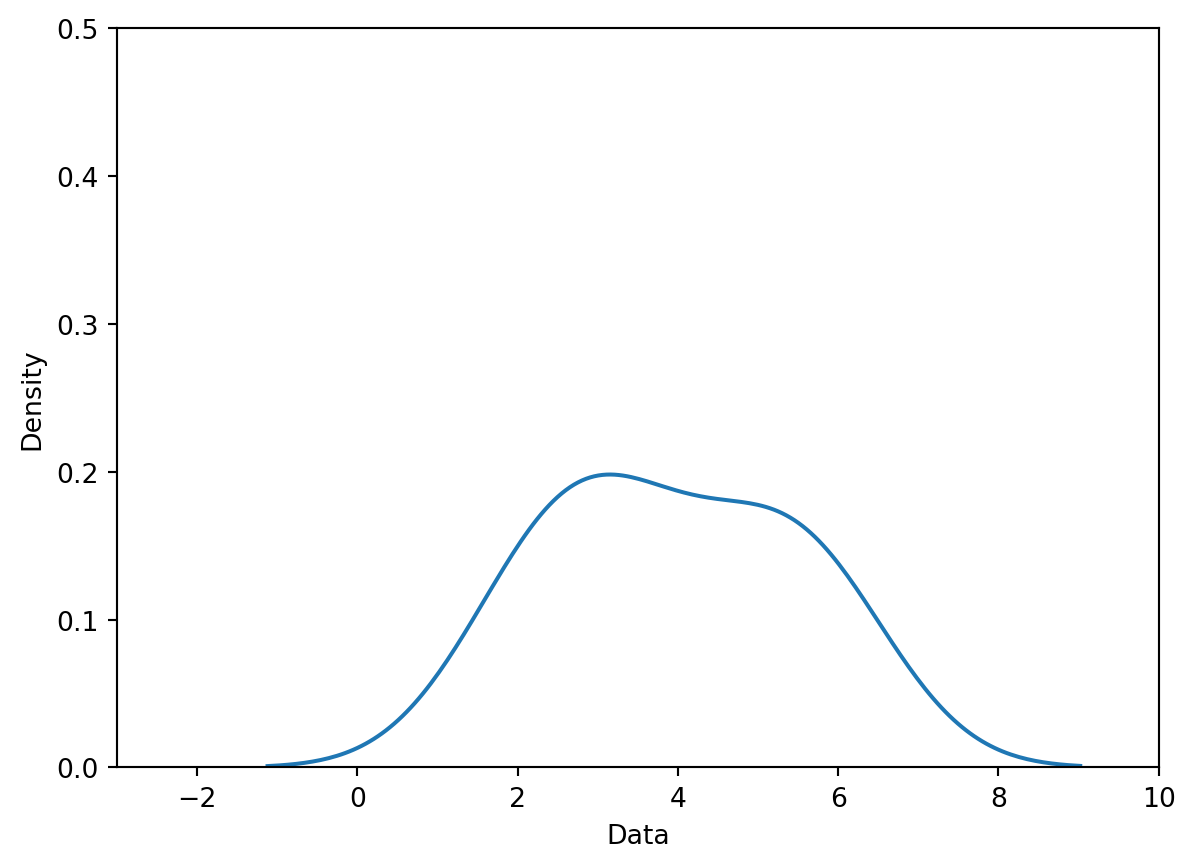
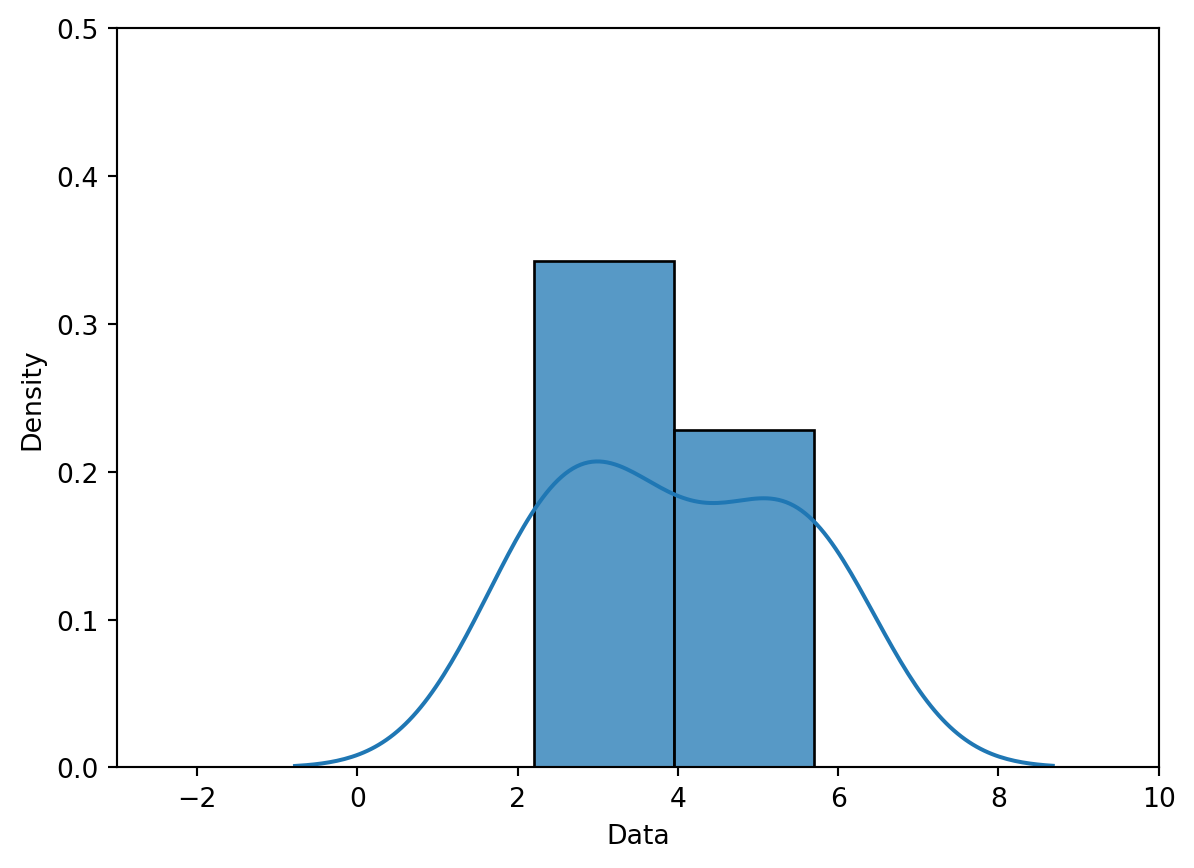
fix2?

diff --git a/docs/visualization_2/visualization_2.html b/docs/visualization_2/visualization_2.html
@@ -348,7 +348,7 @@ Learning Outcomes
 <p>A <strong>kernel density estimate (KDE)</strong> is a smooth, continuous function that approximates a curve. It allows us to represent general trends in a distribution without focusing on the details, which is useful for analyzing the broad structure of a dataset.</p>
 <p>More formally, a KDE attempts to approximate the underlying <strong>probability distribution</strong> from which our dataset was drawn. You may have encountered the idea of a probability distribution in your other classes; if not, we’ll discuss it at length in the next lecture. For now, you can think of a probability distribution as a description of how likely it is for us to sample a particular value in our dataset.</p>
 <p>A KDE curve estimates the probability density function of a random variable. Consider the example below, where we have used <code>sns.displot</code> to plot both a histogram (containing the data points we actually collected) and a KDE curve (representing the <em>approximated</em> probability distribution from which this data was drawn) using data from the World Bank dataset (<code>wb</code>).</p>
-<div id="571f240b" class="cell" data-execution_count="1">
+<div id="2181d3b7" class="cell" data-execution_count="1">
 <details class="code-fold">
 <summary>Code</summary>
 <div class="sourceCode cell-code" id="cb1"><pre class="sourceCode python code-with-copy"><code class="sourceCode python"><span id="cb1-1"><a href="#cb1-1" aria-hidden="true" tabindex="-1"></a><span class="im">import</span> pandas <span class="im">as</span> pd</span>
@@ -364,7 +364,7 @@ Learning Outcomes
 <span id="cb1-11"><a href="#cb1-11" aria-hidden="true" tabindex="-1"></a>                       <span class="st">'Gross national income per capita, Atlas method: $: 2016'</span>:<span class="st">'gni'</span>})</span>
 <span id="cb1-12"><a href="#cb1-12" aria-hidden="true" tabindex="-1"></a>wb.head()</span></code><button title="Copy to Clipboard" class="code-copy-button"><i class="bi"></i></button></pre></div>
 </details>
-<div class="cell-output cell-output-display" data-execution_count="55">
+<div class="cell-output cell-output-display" data-execution_count="109">
 <div>
 
 
@@ -523,7 +523,7 @@ Learning Outcomes
 </div>
 </div>
 </div>
-<div id="9b47e5c2" class="cell" data-execution_count="2">
+<div id="99b3466b" class="cell" data-execution_count="2">
 <div class="sourceCode cell-code" id="cb2"><pre class="sourceCode python code-with-copy"><code class="sourceCode python"><span id="cb2-1"><a href="#cb2-1" aria-hidden="true" tabindex="-1"></a><span class="im">import</span> seaborn <span class="im">as</span> sns</span>
 <span id="cb2-2"><a href="#cb2-2" aria-hidden="true" tabindex="-1"></a><span class="im">import</span> matplotlib.pyplot <span class="im">as</span> plt</span>
 <span id="cb2-3"><a href="#cb2-3" aria-hidden="true" tabindex="-1"></a></span>
@@ -552,7 +552,7 @@ Learning Outcomes
 </ol>
 <p>We’ll explain what a “kernel” is momentarily.</p>
 <p>To make things simpler, let’s construct a KDE for a small, artificially generated dataset of 5 datapoints: <span class="math inline">\([2.2, 2.8, 3.7, 5.3, 5.7]\)</span>. In the plot below, each vertical bar represents one data point.</p>
-<div id="01864dec" class="cell" data-execution_count="3">
+<div id="e2a3e844" class="cell" data-execution_count="3">
 <details class="code-fold">
 <summary>Code</summary>
 <div class="sourceCode cell-code" id="cb3"><pre class="sourceCode python code-with-copy"><code class="sourceCode python"><span id="cb3-1"><a href="#cb3-1" aria-hidden="true" tabindex="-1"></a>data <span class="op">=</span> [<span class="fl">2.2</span>, <span class="fl">2.8</span>, <span class="fl">3.7</span>, <span class="fl">5.3</span>, <span class="fl">5.7</span>]</span>
@@ -573,14 +573,15 @@ Learning Outcomes
 </div>
 </div>
 <p>Our goal is to create the following KDE curve, which was generated automatically by <code>sns.kdeplot</code>.</p>
-<div id="0722bdec" class="cell" data-execution_count="4">
+<div id="2b99db84" class="cell" data-execution_count="4">
 <details class="code-fold">
 <summary>Code</summary>
-<div class="sourceCode cell-code" id="cb4"><pre class="sourceCode python code-with-copy"><code class="sourceCode python"><span id="cb4-1"><a href="#cb4-1" aria-hidden="true" tabindex="-1"></a>sns.kdeplot(data)</span>
-<span id="cb4-2"><a href="#cb4-2" aria-hidden="true" tabindex="-1"></a></span>
-<span id="cb4-3"><a href="#cb4-3" aria-hidden="true" tabindex="-1"></a>plt.xlabel(<span class="st">"Data"</span>)</span>
-<span id="cb4-4"><a href="#cb4-4" aria-hidden="true" tabindex="-1"></a>plt.xlim(<span class="op">-</span><span class="dv">3</span>, <span class="dv">10</span>)</span>
-<span id="cb4-5"><a href="#cb4-5" aria-hidden="true" tabindex="-1"></a>plt.ylim(<span class="dv">0</span>, <span class="fl">0.5</span>)<span class="op">;</span></span></code><button title="Copy to Clipboard" class="code-copy-button"><i class="bi"></i></button></pre></div>
+<div class="sourceCode cell-code" id="cb4"><pre class="sourceCode python code-with-copy"><code class="sourceCode python"><span id="cb4-1"><a href="#cb4-1" aria-hidden="true" tabindex="-1"></a>sns.kdeplot(data, bw_method<span class="op">=</span><span class="fl">0.65</span>) </span>
+<span id="cb4-2"><a href="#cb4-2" aria-hidden="true" tabindex="-1"></a>sns.histplot(data, stat<span class="op">=</span><span class="st">'density'</span>, bins<span class="op">=</span><span class="dv">2</span>)</span>
+<span id="cb4-3"><a href="#cb4-3" aria-hidden="true" tabindex="-1"></a></span>
+<span id="cb4-4"><a href="#cb4-4" aria-hidden="true" tabindex="-1"></a>plt.xlabel(<span class="st">"Data"</span>)</span>
+<span id="cb4-5"><a href="#cb4-5" aria-hidden="true" tabindex="-1"></a>plt.xlim(<span class="op">-</span><span class="dv">3</span>, <span class="dv">10</span>)</span>
+<span id="cb4-6"><a href="#cb4-6" aria-hidden="true" tabindex="-1"></a>plt.ylim(<span class="dv">0</span>, <span class="fl">0.5</span>)<span class="op">;</span></span></code><button title="Copy to Clipboard" class="code-copy-button"><i class="bi"></i></button></pre></div>
 </details>
 <div class="cell-output cell-output-display">
 <div>
@@ -590,8 +591,8 @@ Learning Outcomes
 </div>
 </div>
 </div>
-<p>Alternatively, we can use <code>sns.histplot</code>. This plot also visualizes the underlying bins as a histogram.</p>
-<div id="d323daee" class="cell" data-execution_count="5">
+<p>Alternatively, we can use <code>sns.histplot</code>. You can also get a very similar result in a single call by requesting the KDE be added to the histogram, with kde=True and some extra keywords:</p>
+<div id="85214e6d" class="cell" data-execution_count="5">
 <details class="code-fold">
 <summary>Code</summary>
 <div class="sourceCode cell-code" id="cb5"><pre class="sourceCode python code-with-copy"><code class="sourceCode python"><span id="cb5-1"><a href="#cb5-1" aria-hidden="true" tabindex="-1"></a>sns.histplot(data, bins<span class="op">=</span><span class="dv">2</span>, kde<span class="op">=</span><span class="va">True</span>, stat<span class="op">=</span><span class="st">"density"</span>, kde_kws<span class="op">=</span><span class="bu">dict</span>(cut<span class="op">=</span><span class="dv">3</span>, bw_method<span class="op">=</span><span class="fl">0.65</span>))</span>
@@ -614,7 +615,7 @@ Learning Outcomes
 <p>A <strong>kernel</strong> is a density curve. It is the mathematical function that attempts to capture the randomness of each data point in our sampled data. To explain what this means, consider just <em>one</em> of the datapoints in our dataset: <span class="math inline">\(2.2\)</span>. We obtained this datapoint by randomly sampling some information out in the real world (you can imagine <span class="math inline">\(2.2\)</span> as representing a single measurement taken in an experiment, for example). If we were to sample a new datapoint, we may obtain a slightly different value. It could be higher than <span class="math inline">\(2.2\)</span>; it could also be lower than <span class="math inline">\(2.2\)</span>. We make the assumption that any future sampled datapoints will likely be similar in value to the data we’ve already drawn. This means that our <em>kernel</em> – our description of the probability of randomly sampling any new value – will be greatest at the datapoint we’ve already drawn but still have non-zero probability above and below it. The area under any kernel should integrate to 1, representing the total probability of drawing a new datapoint.</p>
 <p>A <strong>bandwidth value</strong>, usually denoted by <span class="math inline">\(\alpha\)</span>, represents the width of the kernel. A large value of <span class="math inline">\(\alpha\)</span> will result in a wide, short kernel function, while a small value with result in a narrow, tall kernel.</p>
 <p>Below, we place a <strong>Gaussian kernel</strong>, plotted in orange, over the datapoint <span class="math inline">\(2.2\)</span>. A Gaussian kernel is simply the normal distribution, which you may have called a bell curve in Data 8.</p>
-<div id="cd6d5239" class="cell" data-execution_count="6">
+<div id="1d390b42" class="cell" data-execution_count="6">
 <details class="code-fold">
 <summary>Code</summary>
 <div class="sourceCode cell-code" id="cb6"><pre class="sourceCode python code-with-copy"><code class="sourceCode python"><span id="cb6-1"><a href="#cb6-1" aria-hidden="true" tabindex="-1"></a><span class="kw">def</span> gaussian_kernel(x, z, a):</span>
@@ -642,7 +643,7 @@ Learning Outcomes
 </div>
 </div>
 <p>To begin creating our KDE, we place a kernel on <em>each</em> datapoint in our dataset. For our dataset of 5 points, we will have 5 kernels.</p>
-<div id="8adfc3ba" class="cell" data-execution_count="7">
+<div id="4bc82eff" class="cell" data-execution_count="7">
 <details class="code-fold">
 <summary>Code</summary>
 <div class="sourceCode cell-code" id="cb7"><pre class="sourceCode python code-with-copy"><code class="sourceCode python"><span id="cb7-1"><a href="#cb7-1" aria-hidden="true" tabindex="-1"></a><span class="co"># You will work with the functions below in Lab 4</span></span>
@@ -694,7 +695,7 @@ Learning Outcomes
 <h4 data-number="8.1.2.2" class="anchored" data-anchor-id="step-2-normalize-kernels-to-have-a-total-area-of-1"><span class="header-section-number">8.1.2.2</span> Step 2: Normalize Kernels to Have a Total Area of 1</h4>
 <p>Above, we said that <em>each</em> kernel has an area of 1. Earlier, we also said that our goal is to construct a KDE curve using these kernels with a <em>total</em> area of 1. If we were to directly sum the kernels as they are, we would produce a KDE curve with an integrated area of (5 kernels) <span class="math inline">\(\times\)</span> (area of 1 each) = 5. To avoid this, we will <strong>normalize</strong> each of our kernels. This involves multiplying each kernel by <span class="math inline">\(\frac{1}{\#\:\text{datapoints}}\)</span>.</p>
 <p>In the cell below, we multiply each of our 5 kernels by <span class="math inline">\(\frac{1}{5}\)</span> to apply normalization.</p>
-<div id="fac903a3" class="cell" data-execution_count="8">
+<div id="dfed5810" class="cell" data-execution_count="8">
 <details class="code-fold">
 <summary>Code</summary>
 <div class="sourceCode cell-code" id="cb8"><pre class="sourceCode python code-with-copy"><code class="sourceCode python"><span id="cb8-1"><a href="#cb8-1" aria-hidden="true" tabindex="-1"></a>plt.xlim(<span class="op">-</span><span class="dv">3</span>, <span class="dv">10</span>)</span>
@@ -717,7 +718,7 @@ Learning Outcomes
 <section id="step-3-sum-the-normalized-kernels" class="level4" data-number="8.1.2.3">
 <h4 data-number="8.1.2.3" class="anchored" data-anchor-id="step-3-sum-the-normalized-kernels"><span class="header-section-number">8.1.2.3</span> Step 3: Sum the Normalized Kernels</h4>
 <p>Our KDE curve is the sum of the normalized kernels. Notice that the final curve is identical to the plot generated by <code>sns.kdeplot</code> we saw earlier!</p>
-<div id="082e2335" class="cell" data-execution_count="9">
+<div id="4085961d" class="cell" data-execution_count="9">
 <details class="code-fold">
 <summary>Code</summary>
 <div class="sourceCode cell-code" id="cb9"><pre class="sourceCode python code-with-copy"><code class="sourceCode python"><span id="cb9-1"><a href="#cb9-1" aria-hidden="true" tabindex="-1"></a>plt.xlim(<span class="op">-</span><span class="dv">3</span>, <span class="dv">10</span>)</span>
@@ -827,7 +828,7 @@ Learning Outcomes
         0, &amp; \text{else }
     \end{cases}\]</span></p>
 <p>The boxcar kernel is seldom used in practice – we include it here to demonstrate that a kernel function can take whatever form you would like, provided it integrates to 1 and does not output negative values.</p>
-<div id="553e9136" class="cell" data-execution_count="10">
+<div id="71bfd6ea" class="cell" data-execution_count="10">
 <details class="code-fold">
 <summary>Code</summary>
 <div class="sourceCode cell-code" id="cb10"><pre class="sourceCode python code-with-copy"><code class="sourceCode python"><span id="cb10-1"><a href="#cb10-1" aria-hidden="true" tabindex="-1"></a><span class="kw">def</span> boxcar_kernel(alpha, x, z):</span>
@@ -874,7 +875,7 @@ Learning Outcomes
 <p>As we saw earlier, we can use <code>seaborn</code>’s <code>displot</code> function to plot various distributions. In particular, <code>displot</code> allows you to specify the <code>kind</code> of plot and is a wrapper for <code>histplot</code>, <code>kdeplot</code>, and <code>ecdfplot</code>.</p>
 <p>Below, we can see a couple of examples of how <code>sns.displot</code> can be used to plot various distributions.</p>
 <p>First, we can plot a histogram by setting <code>kind</code> to <code>"hist"</code>. Note that here we’ve specified <code>stat = density</code> to normalize the histogram such that the area under the histogram is equal to 1.</p>
-<div id="0b3a9d25" class="cell" data-vscode="{&quot;languageId&quot;:&quot;python&quot;}" data-execution_count="11">
+<div id="0fd02806" class="cell" data-vscode="{&quot;languageId&quot;:&quot;python&quot;}" data-execution_count="11">
 <div class="sourceCode cell-code" id="cb11"><pre class="sourceCode python code-with-copy"><code class="sourceCode python"><span id="cb11-1"><a href="#cb11-1" aria-hidden="true" tabindex="-1"></a>sns.displot(data<span class="op">=</span>wb, </span>
 <span id="cb11-2"><a href="#cb11-2" aria-hidden="true" tabindex="-1"></a>            x<span class="op">=</span><span class="st">"gni"</span>, </span>
 <span id="cb11-3"><a href="#cb11-3" aria-hidden="true" tabindex="-1"></a>            kind<span class="op">=</span><span class="st">"hist"</span>, </span>
@@ -889,7 +890,7 @@ Learning Outcomes
 </div>
 </div>
 <p>Now, what if we want to generate a KDE plot? We can set <code>kind</code> = to <code>"kde"</code>!</p>
-<div id="54fd0ced" class="cell" data-vscode="{&quot;languageId&quot;:&quot;python&quot;}" data-execution_count="12">
+<div id="3005f20c" class="cell" data-vscode="{&quot;languageId&quot;:&quot;python&quot;}" data-execution_count="12">
 <div class="sourceCode cell-code" id="cb12"><pre class="sourceCode python code-with-copy"><code class="sourceCode python"><span id="cb12-1"><a href="#cb12-1" aria-hidden="true" tabindex="-1"></a>sns.displot(data<span class="op">=</span>wb, </span>
 <span id="cb12-2"><a href="#cb12-2" aria-hidden="true" tabindex="-1"></a>            x<span class="op">=</span><span class="st">"gni"</span>, </span>
 <span id="cb12-3"><a href="#cb12-3" aria-hidden="true" tabindex="-1"></a>            kind<span class="op">=</span><span class="st">'kde'</span>)</span>
@@ -903,7 +904,7 @@ Learning Outcomes
 </div>
 </div>
 <p>And finally, if we want to generate an Empirical Cumulative Distribution Function (ECDF), we can specify <code>kind = "ecdf"</code>.</p>
-<div id="93c0a8ad" class="cell" data-vscode="{&quot;languageId&quot;:&quot;python&quot;}" data-execution_count="13">
+<div id="01ab854b" class="cell" data-vscode="{&quot;languageId&quot;:&quot;python&quot;}" data-execution_count="13">
 <div class="sourceCode cell-code" id="cb13"><pre class="sourceCode python code-with-copy"><code class="sourceCode python"><span id="cb13-1"><a href="#cb13-1" aria-hidden="true" tabindex="-1"></a>sns.displot(data<span class="op">=</span>wb, </span>
 <span id="cb13-2"><a href="#cb13-2" aria-hidden="true" tabindex="-1"></a>            x<span class="op">=</span><span class="st">"gni"</span>, </span>
 <span id="cb13-3"><a href="#cb13-3" aria-hidden="true" tabindex="-1"></a>            kind<span class="op">=</span><span class="st">'ecdf'</span>)</span>
@@ -924,7 +925,7 @@ Learning Outcomes
 <h4 data-number="8.3.0.1" class="anchored" data-anchor-id="scatter-plots"><span class="header-section-number">8.3.0.1</span> Scatter Plots</h4>
 <p><strong>Scatter plots</strong> are one of the most useful tools in representing the relationship between <strong>pairs</strong> of quantitative variables. They are particularly important in gauging the strength, or correlation, of the relationship between variables. Knowledge of these relationships can then motivate decisions in our modeling process.</p>
 <p>In <code>matplotlib</code>, we use the function <code>plt.scatter</code> to generate a scatter plot. Notice that, unlike our examples of plotting single-variable distributions, now we specify sequences of values to be plotted along the x-axis <em>and</em> the y-axis.</p>
-<div id="f267b738" class="cell" data-vscode="{&quot;languageId&quot;:&quot;python&quot;}" data-execution_count="14">
+<div id="6c98bd9c" class="cell" data-vscode="{&quot;languageId&quot;:&quot;python&quot;}" data-execution_count="14">
 <div class="sourceCode cell-code" id="cb14"><pre class="sourceCode python code-with-copy"><code class="sourceCode python"><span id="cb14-1"><a href="#cb14-1" aria-hidden="true" tabindex="-1"></a>plt.scatter(wb[<span class="st">"per capita: </span><span class="sc">% g</span><span class="st">rowth: 2016"</span>], <span class="op">\</span></span>
 <span id="cb14-2"><a href="#cb14-2" aria-hidden="true" tabindex="-1"></a>            wb[<span class="st">'Adult literacy rate: Female: % ages 15 and older: 2005-14'</span>])</span>
 <span id="cb14-3"><a href="#cb14-3" aria-hidden="true" tabindex="-1"></a></span>
@@ -940,7 +941,7 @@ Learning Outcomes
 </div>
 </div>
 <p>In <code>seaborn</code>, we call the function <code>sns.scatterplot</code>. We use the <code>x</code> and <code>y</code> parameters to indicate the values to be plotted along the x and y axes, respectively. By using the <code>hue</code> parameter, we can specify a third variable to be used for coloring each scatter point.</p>
-<div id="0f3a2185" class="cell" data-vscode="{&quot;languageId&quot;:&quot;python&quot;}" data-execution_count="15">
+<div id="8c82bee0" class="cell" data-vscode="{&quot;languageId&quot;:&quot;python&quot;}" data-execution_count="15">
 <div class="sourceCode cell-code" id="cb15"><pre class="sourceCode python code-with-copy"><code class="sourceCode python"><span id="cb15-1"><a href="#cb15-1" aria-hidden="true" tabindex="-1"></a>sns.scatterplot(data <span class="op">=</span> wb, x <span class="op">=</span> <span class="st">"per capita: </span><span class="sc">% g</span><span class="st">rowth: 2016"</span>, <span class="op">\</span></span>
 <span id="cb15-2"><a href="#cb15-2" aria-hidden="true" tabindex="-1"></a>               y <span class="op">=</span> <span class="st">"Adult literacy rate: Female: % ages 15 and older: 2005-14"</span>, </span>
 <span id="cb15-3"><a href="#cb15-3" aria-hidden="true" tabindex="-1"></a>               hue <span class="op">=</span> <span class="st">"Continent"</span>)</span>
@@ -963,7 +964,7 @@ Learning Outcomes
 <li><strong>Jittering</strong> is the process of adding a small amount of random noise to all x and y values to slightly shift the position of each datapoint. By randomly shifting all the data by some small distance, we can discern individual points more clearly without modifying the major trends of the original dataset.</li>
 </ul>
 <p>In the cell below, we first jitter the data using <code>np.random.uniform</code>, then re-plot it with smaller markers. The resulting plot is much easier to interpret.</p>
-<div id="e03a69d4" class="cell" data-vscode="{&quot;languageId&quot;:&quot;python&quot;}" data-execution_count="16">
+<div id="7e0edc27" class="cell" data-vscode="{&quot;languageId&quot;:&quot;python&quot;}" data-execution_count="16">
 <div class="sourceCode cell-code" id="cb16"><pre class="sourceCode python code-with-copy"><code class="sourceCode python"><span id="cb16-1"><a href="#cb16-1" aria-hidden="true" tabindex="-1"></a><span class="co"># Setting a seed ensures that we produce the same plot each time</span></span>
 <span id="cb16-2"><a href="#cb16-2" aria-hidden="true" tabindex="-1"></a><span class="co"># This means that the course notes will not change each time you access them</span></span>
 <span id="cb16-3"><a href="#cb16-3" aria-hidden="true" tabindex="-1"></a>np.random.seed(<span class="dv">150</span>)</span>
@@ -997,7 +998,7 @@ Learning Outcomes
 <h4 data-number="8.3.0.2" class="anchored" data-anchor-id="lmplot-and-jointplot"><span class="header-section-number">8.3.0.2</span> <code>lmplot</code> and <code>jointplot</code></h4>
 <p><code>seaborn</code> also includes several built-in functions for creating more sophisticated scatter plots. Two of the most commonly used examples are <code>sns.lmplot</code> and <code>sns.jointplot</code>.</p>
 <p><code>sns.lmplot</code> plots both a scatter plot <em>and</em> a linear regression line, all in one function call. We’ll discuss linear regression in a few lectures.</p>
-<div id="d78498a8" class="cell" data-vscode="{&quot;languageId&quot;:&quot;python&quot;}" data-execution_count="17">
+<div id="3c382f1f" class="cell" data-vscode="{&quot;languageId&quot;:&quot;python&quot;}" data-execution_count="17">
 <div class="sourceCode cell-code" id="cb17"><pre class="sourceCode python code-with-copy"><code class="sourceCode python"><span id="cb17-1"><a href="#cb17-1" aria-hidden="true" tabindex="-1"></a>sns.lmplot(data <span class="op">=</span> wb, x <span class="op">=</span> <span class="st">"per capita: </span><span class="sc">% g</span><span class="st">rowth: 2016"</span>, <span class="op">\</span></span>
 <span id="cb17-2"><a href="#cb17-2" aria-hidden="true" tabindex="-1"></a>           y <span class="op">=</span> <span class="st">"Adult literacy rate: Female: % ages 15 and older: 2005-14"</span>)</span>
 <span id="cb17-3"><a href="#cb17-3" aria-hidden="true" tabindex="-1"></a></span>
@@ -1011,7 +1012,7 @@ Learning Outcomes
 </div>
 </div>
 <p><code>sns.jointplot</code> creates a visualization with three components: a scatter plot, a histogram of the distribution of x values, and a histogram of the distribution of y values.</p>
-<div id="7354798c" class="cell" data-vscode="{&quot;languageId&quot;:&quot;python&quot;}" data-execution_count="18">
+<div id="ac15203e" class="cell" data-vscode="{&quot;languageId&quot;:&quot;python&quot;}" data-execution_count="18">
 <div class="sourceCode cell-code" id="cb18"><pre class="sourceCode python code-with-copy"><code class="sourceCode python"><span id="cb18-1"><a href="#cb18-1" aria-hidden="true" tabindex="-1"></a>sns.jointplot(data <span class="op">=</span> wb, x <span class="op">=</span> <span class="st">"per capita: </span><span class="sc">% g</span><span class="st">rowth: 2016"</span>, <span class="op">\</span></span>
 <span id="cb18-2"><a href="#cb18-2" aria-hidden="true" tabindex="-1"></a>           y <span class="op">=</span> <span class="st">"Adult literacy rate: Female: % ages 15 and older: 2005-14"</span>)</span>
 <span id="cb18-3"><a href="#cb18-3" aria-hidden="true" tabindex="-1"></a></span>
@@ -1032,7 +1033,7 @@ Learning Outcomes
 <p>For datasets with a very large number of datapoints, jittering is unlikely to fully resolve the issue of overplotting. In these cases, we can attempt to visualize our data by its <em>density</em>, rather than displaying each individual datapoint.</p>
 <p><strong>Hex plots</strong> can be thought of as two-dimensional histograms that show the joint distribution between two variables. This is particularly useful when working with very dense data. In a hex plot, the x-y plane is binned into hexagons. Hexagons that are darker in color indicate a greater density of data – that is, there are more data points that lie in the region enclosed by the hexagon.</p>
 <p>We can generate a hex plot using <code>sns.jointplot</code> modified with the <code>kind</code> parameter.</p>
-<div id="6e3daa84" class="cell" data-vscode="{&quot;languageId&quot;:&quot;python&quot;}" data-execution_count="19">
+<div id="1fe1dd54" class="cell" data-vscode="{&quot;languageId&quot;:&quot;python&quot;}" data-execution_count="19">
 <div class="sourceCode cell-code" id="cb19"><pre class="sourceCode python code-with-copy"><code class="sourceCode python"><span id="cb19-1"><a href="#cb19-1" aria-hidden="true" tabindex="-1"></a>sns.jointplot(data <span class="op">=</span> wb, x <span class="op">=</span> <span class="st">"per capita: </span><span class="sc">% g</span><span class="st">rowth: 2016"</span>, <span class="op">\</span></span>
 <span id="cb19-2"><a href="#cb19-2" aria-hidden="true" tabindex="-1"></a>              y <span class="op">=</span> <span class="st">"Adult literacy rate: Female: % ages 15 and older: 2005-14"</span>, <span class="op">\</span></span>
 <span id="cb19-3"><a href="#cb19-3" aria-hidden="true" tabindex="-1"></a>              kind <span class="op">=</span> <span class="st">"hex"</span>)</span>
@@ -1053,7 +1054,7 @@ Learning Outcomes
 <h4 data-number="8.3.0.4" class="anchored" data-anchor-id="contour-plots"><span class="header-section-number">8.3.0.4</span> Contour Plots</h4>
 <p><strong>Contour plots</strong> are an alternative way of plotting the joint distribution of two variables. You can think of them as the 2-dimensional versions of KDE plots. A contour plot can be interpreted in a similar way to a <a href="https://gisgeography.com/contour-lines-topographic-map/">topographic map</a>. Each contour line represents an area that has the same <em>density</em> of datapoints throughout the region. Contours marked with darker colors contain more datapoints (a higher density) in that region.</p>
 <p><code>sns.kdeplot</code> will generate a contour plot if we specify both x and y data.</p>
-<div id="25e33d6e" class="cell" data-vscode="{&quot;languageId&quot;:&quot;python&quot;}" data-execution_count="20">
+<div id="81e059f8" class="cell" data-vscode="{&quot;languageId&quot;:&quot;python&quot;}" data-execution_count="20">
 <div class="sourceCode cell-code" id="cb20"><pre class="sourceCode python code-with-copy"><code class="sourceCode python"><span id="cb20-1"><a href="#cb20-1" aria-hidden="true" tabindex="-1"></a>sns.kdeplot(data <span class="op">=</span> wb, x <span class="op">=</span> <span class="st">"per capita: </span><span class="sc">% g</span><span class="st">rowth: 2016"</span>, <span class="op">\</span></span>
 <span id="cb20-2"><a href="#cb20-2" aria-hidden="true" tabindex="-1"></a>            y <span class="op">=</span> <span class="st">"Adult literacy rate: Female: % ages 15 and older: 2005-14"</span>, <span class="op">\</span></span>
 <span id="cb20-3"><a href="#cb20-3" aria-hidden="true" tabindex="-1"></a>            fill <span class="op">=</span> <span class="va">True</span>)</span>
@@ -1075,7 +1076,7 @@ Learning Outcomes
 <p>Much of this was done to uncover insights in data, which will prove necessary when we begin building models of data later in the course. A strong graphical correlation between two variables hints at an underlying relationship that we may want to study in greater detail. However, relying on visual relationships alone is limiting - not all plots show association. The presence of outliers and other statistical anomalies makes it hard to interpret data.</p>
 <p><strong>Transformations</strong> are the process of manipulating data to find significant relationships between variables. These are often found by applying mathematical functions to variables that “transform” their range of possible values and highlight some previously hidden associations between data.</p>
 <p>To see why we may want to transform data, consider the following plot of adult literacy rates against gross national income.</p>
-<div id="e6fbd7c6" class="cell" data-vscode="{&quot;languageId&quot;:&quot;python&quot;}" data-execution_count="21">
+<div id="3579c994" class="cell" data-vscode="{&quot;languageId&quot;:&quot;python&quot;}" data-execution_count="21">
 <details class="code-fold">
 <summary>Code</summary>
 <div class="sourceCode cell-code" id="cb21"><pre class="sourceCode python code-with-copy"><code class="sourceCode python"><span id="cb21-1"><a href="#cb21-1" aria-hidden="true" tabindex="-1"></a><span class="co"># Some data cleaning to help with the next example</span></span>
@@ -1119,7 +1120,7 @@ Learning Outcomes
 </ul>
 <p>One function that produces this result is the <strong>log transformation</strong>. When we take the logarithm of a large number, the original number will decrease in magnitude dramatically. Conversely, when we take the logarithm of a small number, the original number does not change its value by as significant of an amount (to illustrate this, consider the difference between <span class="math inline">\(\log{(100)} = 4.61\)</span> and <span class="math inline">\(\log{(10)} = 2.3\)</span>).</p>
 <p>In Data 100 (and most upper-division STEM classes), <span class="math inline">\(\log\)</span> is used to refer to the natural logarithm with base <span class="math inline">\(e\)</span>.</p>
-<div id="158950f9" class="cell" data-vscode="{&quot;languageId&quot;:&quot;python&quot;}" data-execution_count="22">
+<div id="35579e73" class="cell" data-vscode="{&quot;languageId&quot;:&quot;python&quot;}" data-execution_count="22">
 <div class="sourceCode cell-code" id="cb22"><pre class="sourceCode python code-with-copy"><code class="sourceCode python"><span id="cb22-1"><a href="#cb22-1" aria-hidden="true" tabindex="-1"></a><span class="co"># np.log takes the logarithm of an array or Series</span></span>
 <span id="cb22-2"><a href="#cb22-2" aria-hidden="true" tabindex="-1"></a>plt.scatter(np.log(df[<span class="st">"inc"</span>]), df[<span class="st">"lit"</span>])</span>
 <span id="cb22-3"><a href="#cb22-3" aria-hidden="true" tabindex="-1"></a></span>
@@ -1142,7 +1143,7 @@ Learning Outcomes
 <li>Not substantially alter the scaling of small values of y (we do not want to drastically modify the lower end of the y axis, which is already distributed evenly on the vertical scale).</li>
 </ul>
 <p>In this case, it is helpful to apply a <strong>power transformation</strong> – that is, raise our y values to a power. Let’s try raising our adult literacy rate values to the power of 4. Large values raised to the power of 4 will increase in magnitude proportionally much more than small values raised to the power of 4 (consider the difference between <span class="math inline">\(2^4 = 16\)</span> and <span class="math inline">\(200^4 = 1600000000\)</span>).</p>
-<div id="d147aa87" class="cell" data-vscode="{&quot;languageId&quot;:&quot;python&quot;}" data-execution_count="23">
+<div id="49178bc7" class="cell" data-vscode="{&quot;languageId&quot;:&quot;python&quot;}" data-execution_count="23">
 <div class="sourceCode cell-code" id="cb23"><pre class="sourceCode python code-with-copy"><code class="sourceCode python"><span id="cb23-1"><a href="#cb23-1" aria-hidden="true" tabindex="-1"></a><span class="co"># Apply a log transformation to the x values and a power transformation to the y values</span></span>
 <span id="cb23-2"><a href="#cb23-2" aria-hidden="true" tabindex="-1"></a>plt.scatter(np.log(df[<span class="st">"inc"</span>]), df[<span class="st">"lit"</span>]<span class="op">**</span><span class="dv">4</span>)</span>
 <span id="cb23-3"><a href="#cb23-3" aria-hidden="true" tabindex="-1"></a></span>
@@ -1163,7 +1164,7 @@ Learning Outcomes
 <p><span class="math display">\[y^4 = m(\log{x}) + b\]</span></p>
 <p>Where <span class="math inline">\(m\)</span> represents the slope of the linear fit, while <span class="math inline">\(b\)</span> represents the intercept.</p>
 <p>The cell below computes <span class="math inline">\(m\)</span> and <span class="math inline">\(b\)</span> for our transformed data. We’ll discuss how this code was generated in a future lecture.</p>
-<div id="b4ba44e1" class="cell" data-vscode="{&quot;languageId&quot;:&quot;python&quot;}" data-execution_count="24">
+<div id="a0714206" class="cell" data-vscode="{&quot;languageId&quot;:&quot;python&quot;}" data-execution_count="24">
 <details class="code-fold">
 <summary>Code</summary>
 <div class="sourceCode cell-code" id="cb24"><pre class="sourceCode python code-with-copy"><code class="sourceCode python"><span id="cb24-1"><a href="#cb24-1" aria-hidden="true" tabindex="-1"></a><span class="co"># The code below fits a linear regression model. We'll discuss it at length in a future lecture</span></span>
@@ -1201,7 +1202,7 @@ The intercept, b, of the transformed data is: -1802204836.0479977</code></pre>
 <p>By rearranging the equation, we find a relationship between the untransformed variables <span class="math inline">\(x\)</span> and <span class="math inline">\(y\)</span>.</p>
 <p><span class="math display">\[y = [m(\log{x}) + b]^{(1/4)}\]</span></p>
 <p>When we plug in the values for <span class="math inline">\(m\)</span> and <span class="math inline">\(b\)</span> computed above, something interesting happens.</p>
-<div id="1dd7ef6e" class="cell" data-vscode="{&quot;languageId&quot;:&quot;python&quot;}" data-execution_count="25">
+<div id="4ef360c3" class="cell" data-vscode="{&quot;languageId&quot;:&quot;python&quot;}" data-execution_count="25">
 <details class="code-fold">
 <summary>Code</summary>
 <div class="sourceCode cell-code" id="cb26"><pre class="sourceCode python code-with-copy"><code class="sourceCode python"><span id="cb26-1"><a href="#cb26-1" aria-hidden="true" tabindex="-1"></a><span class="co"># Now, plug the values for m and b into the relationship between the untransformed x and y</span></span>
